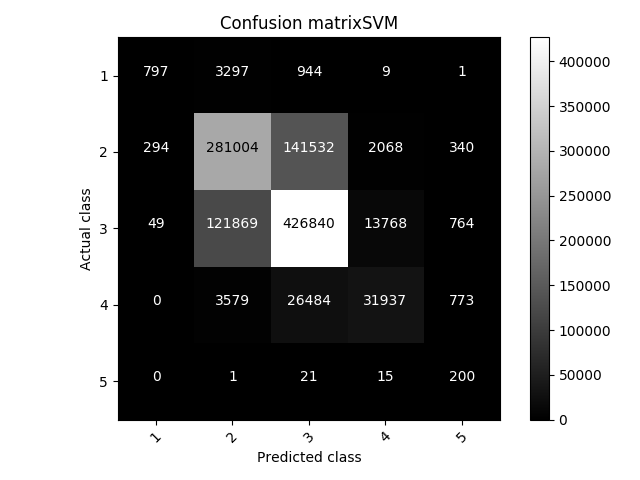
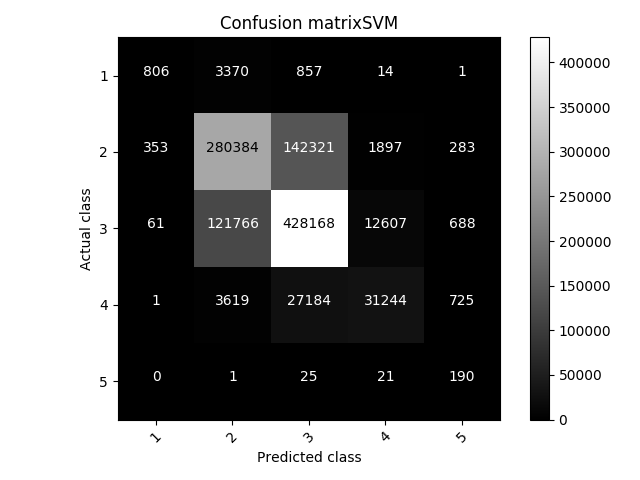
Figuras com os novos valores enn best

diff --git a/dissertacao/5_6_selecao_modelo.py b/dissertacao/5_6_selecao_modelo.py
@@ -22,8 +22,8 @@ pd.set_option('display.width', 2000)  # display all columns
 dados_completo = pd.read_csv('../input/DadosCompletoTransformadoML.csv', encoding='utf-8', delimiter='\t')
 dados_completo = dados_completo.sample(frac=1).reset_index(drop=True)
 dados_completo.drop(dados_completo.columns[0], axis=1, inplace=True)
-dados_completo.drop(['other_incentives', 'total_area_confinement', 'area_20_erosion', 'quality_programs',
-                     'lfi', 'fertigation'],  # , 'field_supplementation', 'clfi'],
+dados_completo.drop(['other_incentives', 'total_area_confinement', 'area_20_erosion', 'quality_programs'],
+                    # 'lfi', 'fertigation'],  # , 'field_supplementation', 'clfi'],
                     axis=1, inplace=True)
 print(dados_completo.head())
 
@@ -43,7 +43,7 @@ kfold = StratifiedKFold(n_splits=num_folds, random_state=random_state)
 
 # preparando alguns modelos
 modelos_base = [
-    ('MNB', MultinomialNB(alpha=0.01)),
+    # ('MNB', MultinomialNB(alpha=0.01)),
     ('RFC', RandomForestClassifier(random_state=random_state, class_weight='balanced', max_depth=50,
                                    max_features='sqrt', min_samples_leaf=1, min_samples_split=6, n_estimators=250,
                                    n_jobs=n_jobs)),
